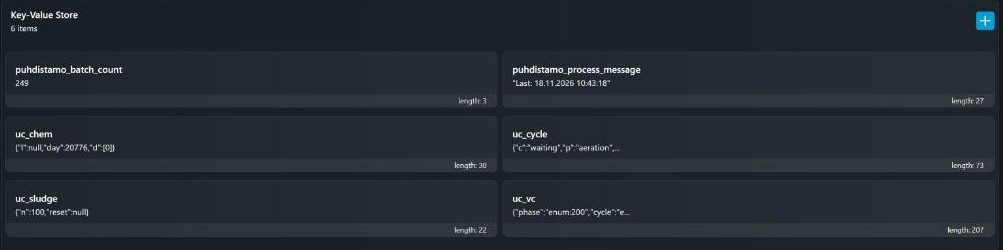
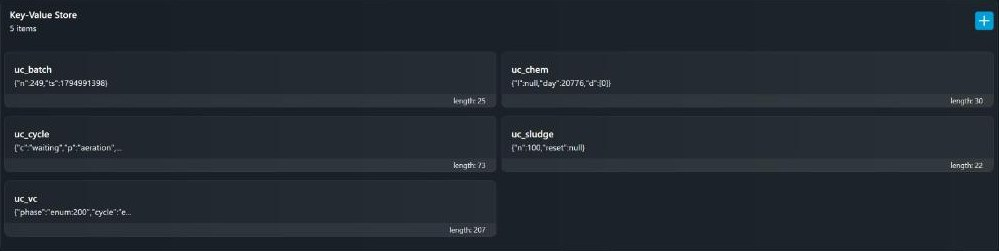
Skripti 3.0.1: v2.4-siirtymä pois, ohjeesta siirtymä pois
- skripti ei lue eikä kirjoita v2.4:n KVS-avaimia (puhdistamo_*), legacy_kvs pois
- testit käyttävät uc_batch-avainta ja tarkistavat, ettei v2-avaimia kirjoiteta
- asennusohjeesta siirtymä v2.4:stä pois, tilakysely ja kuvat 3.0.1:stä
- korttiohjeen YAML-esimerkistä legacy-lohko pois
- testitulokset: 3.0.1 laitteella (muisti, päivitys säilytti laskurit)

Claude-Session: https://claude.ai/code/session_013N1LumQrB2qyWVDVuPZ4Fc

diff --git a/test/v3_device_test.js b/test/v3_device_test.js
@@ -1,4 +1,4 @@
-// v3 install, components, user edits, KVS migration from v2.4, reinstall, endpoint and events
+// v3 install, components, user edits, stored counters, reinstall, endpoint and events
 // on the device mock. Usage: node v3_device_test.js [-v]
 'use strict';
 const fs = require('fs');
@@ -22,9 +22,8 @@ dev.verbose = process.argv.includes('-v');
 dev.bootT = T0 - 2000;
 dev.voltage = 230;
 dev.setFeed(sim.events);
-// v2.4 left these in KVS
-dev.kvs.set('puhdistamo_batch_count', '249');
-dev.kvs.set('puhdistamo_process_message', '"Last: 17.11.2026 21:15:30"');
+// counters from an earlier v3 run
+dev.kvs.set('uc_batch', JSON.stringify({ n: 249, ts: Date.parse('2026-11-17T19:15:30Z') / 1000 }));
 const sid = dev.addScript('uponor_clean_v3', code);
 const r = dev.startScript(sid);
 check(!r.err, 'script starts: ' + (r.msg || 'ok'));
@@ -37,9 +36,9 @@ check(comp('phase').config.name === 'Phase' && comp('next_pumpout').config.name 
 check(comp('phase').config.options.length === 13 && comp('warning').config.options.length === 11, 'enum options set with setConfig');
 check(comp('chemical').config.unit === undefined ? comp('chemical').config.meta.ui.unit === 'l' : true, 'chemical unit l');
 check(JSON.stringify(comp('plant').value) === JSON.stringify(['phase', 'cycle', 'status', 'warning', 'next_pumpout', 'batches', 'chemical', 'sludge'].map((x) => roles[x])), 'group members in order');
-check(comp('batches').value === 249, 'batch count taken over from v2.4 KVS: ' + comp('batches').value);
+check(comp('batches').value === 249, 'batch count from uc_batch: ' + comp('batches').value);
 const ub = JSON.parse(dev.kvs.get('uc_batch') || 'null');
-check(ub === null || ub.n === 249, 'uc_batch not written before a change');
+check(ub && ub.n === 249, 'uc_batch kept');
 
 // external writes: read-only labels refused, fields accepted
 check(comp('phase').config.meta.ui.view === 'label' && comp('batches').config.meta.ui.view === 'field', 'labels for outputs, fields for user values');
@@ -49,7 +48,7 @@ const st1 = JSON.parse(dev.httpGet(`/script/${sid}/state`).body);
 check(st1.eta !== null && Math.abs(st1.eta * 1000 - (sim.marks.find((m) => m.s === 'pump-out').t + 1000)) < 60e3, 'state endpoint gives the pump-out time');
 check(/^2026-11-18T\d\d:\d\d:\d\d\+02:00$/.test(comp('next_pumpout').value), 'next pump-out as local ISO time: ' + comp('next_pumpout').value);
 check(/Pump-out at \d\d:\d\d \(in \d+ h \d+ min\)/.test(comp('status').value), 'status text: ' + comp('status').value);
-check(st1.last_pumpout === Date.parse('2026-11-17T19:15:30Z') / 1000, 'last pump-out parsed from the v2.4 message (local time)');
+check(st1.last_pumpout === Date.parse('2026-11-17T19:15:30Z') / 1000, 'last pump-out from uc_batch');
 
 // user edits
 dev.externalSet(roles.chemical, 0.5);
@@ -64,13 +63,14 @@ dev.externalSet(roles.batches, 1000);
 dev.run(2000);
 check(comp('warning').value === 'none', 'sludge reset clears the reminder');
 check(JSON.parse(dev.kvs.get('uc_sludge')).reset !== null, 'sludge reset time stored');
-check(JSON.parse(dev.kvs.get('uc_batch')).n === 1000 && dev.kvs.get('puhdistamo_batch_count') === '1000', 'user batch count stored (uc_batch and legacy key)');
+check(JSON.parse(dev.kvs.get('uc_batch')).n === 1000, 'user batch count stored');
 
 // run through the pump-out
 dev.run(4 * 3600e3);
 check(comp('batches').value === 1001 && comp('sludge').value === 1, `batch counted: batches ${comp('batches').value}, sludge ${comp('sludge').value}`);
 check(comp('chemical').value === 17.96, 'one dose taken from the chemical: ' + comp('chemical').value);
-check(/^"Last: 18\.11\.2026 \d\d:\d\d:\d\d"$/.test(dev.kvs.get('puhdistamo_process_message')), 'legacy last pump-out message: ' + dev.kvs.get('puhdistamo_process_message'));
+check(JSON.parse(dev.kvs.get('uc_batch')).n === 1001, 'batch stored in uc_batch');
+check(![...dev.kvs.keys()].some((k) => k.startsWith('puhdistamo_')), 'no v2 KVS keys written');
 const types = [...new Set(dev.eventLog.filter((e) => e.name === 'uponor').map((e) => e.data.type))].sort();
 check(JSON.stringify(types) === JSON.stringify(['batch', 'chemical', 'phase', 'sludge', 'start', 'warning']), 'event types: ' + types.join(','));
 check(dev.eventLog.every((e) => e.data.v === 1), 'events carry version 1');

diff --git a/shelly/v3/uponor_clean_v3.js b/shelly/v3/uponor_clean_v3.js
@@ -26,7 +26,7 @@
  * no Array shift / unshift / concat, no Date.UTC.
  */
 
-let VERSION = "3.0.0";
+let VERSION = "3.0.1";
 
 // ------------------------------------------------------------------ settings
 // Can be overridden in KVS key "uc_cfg", e.g. {"sludge_limit": 600}. Script memory is
@@ -38,8 +38,7 @@ let CFG = {
     chem_warn_days: 10,       // warning when the chemical lasts less than this
     sludge_limit: 800,        // sludge emptying reminder (firmware default), 0 = off
     emptying_hint: true,      // hint when the pump-in power shows that the sludge was emptied
-    fault_high_w: 62.0,       // air_leak warning above this for 2 min
-    legacy_kvs: true          // also write the v2 KVS keys (puhdistamo_*)
+    fault_high_w: 62.0        // air_leak warning above this for 2 min
 };
 
 // firmware times (s), control unit board A
@@ -240,14 +239,6 @@ function kvsSave(key, value) {
 
 function saveBatch() {
     kvsSave("uc_batch", { n: cnt.batches, ts: cnt.lastBatchUnix });
-    if (CFG.legacy_kvs) {
-        kvsSave("puhdistamo_batch_count", JSON.stringify(cnt.batches));
-        let c = civil(cnt.lastBatchUnix);
-        if (c) {
-            kvsSave("puhdistamo_process_message", JSON.stringify("Last: " + pad2(c[2]) + "." + pad2(c[1]) + "." + c[0] + " " +
-                pad2(c[3]) + ":" + pad2(c[4]) + ":" + pad2(c[5])));
-        }
-    }
 }
 
 function saveChem() {
@@ -1183,23 +1174,6 @@ function applyLoaded(key, v) {
     } else if (key === "uc_batch" && v) {
         cnt.batches = v.n || 0;
         cnt.lastBatchUnix = v.ts || null;
-    } else if (key === "puhdistamo_batch_count" && v !== null) {
-        cnt.batches = Number(v) || 0;
-    } else if (key === "puhdistamo_process_message" && typeof v === "string" && v.indexOf("Last: ") === 0) {
-        let m = v.slice(6).split(" ");
-        let d = m[0].split(".");
-        let h = m[1] ? m[1].split(":") : ["0", "0", "0"];
-        let off = localOffsetMin();
-        if (d.length === 3 && off !== null) {
-            // days from 1970-01-01 to the civil date (Date.UTC is not available on the device)
-            let y = Number(d[2]) - (Number(d[1]) <= 2 ? 1 : 0);
-            let era = Math.floor(y / 400);
-            let yoe = y - era * 400;
-            let mo = Number(d[1]);
-            let doy = Math.floor((153 * (mo + (mo > 2 ? -3 : 9)) + 2) / 5) + Number(d[0]) - 1;
-            let days = era * 146097 + yoe * 365 + Math.floor(yoe / 4) - Math.floor(yoe / 100) + doy - 719468;
-            cnt.lastBatchUnix = days * 86400 + Number(h[0]) * 3600 + Number(h[1]) * 60 + Number(h[2] || 0) - off * 60;
-        }
     } else if (key === "uc_chem" && v) {
         cnt.chem = typeof v.l === "number" ? v.l : null;
         cnt.chemDay = v.day || 0;
@@ -1254,10 +1228,6 @@ function loadNext(i) {
             } catch (e) {
                 v = null;
             }
-        }
-        if (key === "uc_batch" && v === null) {
-            LOAD.push("puhdistamo_batch_count");
-            LOAD.push("puhdistamo_process_message");
         }
         applyLoaded(key, v);
         loadNext(i + 1);

diff --git a/shelly/v3/uponor_clean_v3_shelly.js b/shelly/v3/uponor_clean_v3_shelly.js
@@ -1,6 +1,6 @@
-// Uponor Clean I v3.0.0 - compact version of uponor_clean_v3.js (github.com/fraatti/uponor-clean-shelly)
+// Uponor Clean I v3.0.1 - compact version of uponor_clean_v3.js (github.com/fraatti/uponor-clean-shelly)
 // Events: Shelly.emitEvent("uponor", {v, type, ...}) - kept in the first 5 kB for the Home Assistant event entity
-let VERSION = "3.0.0";
+let VERSION = "3.0.1";
 let CFG = {
  off_max: 2.0, idle_max: 10.0, valve_max: 24.0, dosing_max: 38.5, comp_max: 52.0, aer_max: 64.0,
  debounce_s: 6,
@@ -8,8 +8,7 @@ let CFG = {
  chem_warn_days: 10,
  sludge_limit: 800,
  emptying_hint: true,
- fault_high_w: 62.0,
- legacy_kvs: true
+ fault_high_w: 62.0
 };
 let FW = {
  pre: 600, aer: 5400, chem: 90, dose: 10, mix: 120, sed1: 2700, sludge: 120, sed2: 900, out: 780, in_max: 1020,
@@ -175,14 +174,6 @@ function kvsSave(key, value) {
 }
 function saveBatch() {
  kvsSave("uc_batch", { n: cnt.batches, ts: cnt.lastBatchUnix });
- if (CFG.legacy_kvs) {
-  kvsSave("puhdistamo_batch_count", JSON.stringify(cnt.batches));
-  let c = civil(cnt.lastBatchUnix);
-  if (c) {
-   kvsSave("puhdistamo_process_message", JSON.stringify("Last: " + pad2(c[2]) + "." + pad2(c[1]) + "." + c[0] + " " +
-    pad2(c[3]) + ":" + pad2(c[4]) + ":" + pad2(c[5])));
-  }
- }
 }
 function saveChem() {
  kvsSave("uc_chem", { l: cnt.chem, day: cnt.chemDay, d: cnt.doses });
@@ -1004,22 +995,6 @@ function applyLoaded(key, v) {
  } else if (key === "uc_batch" && v) {
   cnt.batches = v.n || 0;
   cnt.lastBatchUnix = v.ts || null;
- } else if (key === "puhdistamo_batch_count" && v !== null) {
-  cnt.batches = Number(v) || 0;
- } else if (key === "puhdistamo_process_message" && typeof v === "string" && v.indexOf("Last: ") === 0) {
-  let m = v.slice(6).split(" ");
-  let d = m[0].split(".");
-  let h = m[1] ? m[1].split(":") : ["0", "0", "0"];
-  let off = localOffsetMin();
-  if (d.length === 3 && off !== null) {
-   let y = Number(d[2]) - (Number(d[1]) <= 2 ? 1 : 0);
-   let era = Math.floor(y / 400);
-   let yoe = y - era * 400;
-   let mo = Number(d[1]);
-   let doy = Math.floor((153 * (mo + (mo > 2 ? -3 : 9)) + 2) / 5) + Number(d[0]) - 1;
-   let days = era * 146097 + yoe * 365 + Math.floor(yoe / 4) - Math.floor(yoe / 100) + doy - 719468;
-   cnt.lastBatchUnix = days * 86400 + Number(h[0]) * 3600 + Number(h[1]) * 60 + Number(h[2] || 0) - off * 60;
-  }
  } else if (key === "uc_chem" && v) {
   cnt.chem = typeof v.l === "number" ? v.l : null;
   cnt.chemDay = v.day || 0;
@@ -1071,10 +1046,6 @@ function loadNext(i) {
    } catch (e) {
     v = null;
    }
-  }
-  if (key === "uc_batch" && v === null) {
-   LOAD.push("puhdistamo_batch_count");
-   LOAD.push("puhdistamo_process_message");
   }
   applyLoaded(key, v);
   loadNext(i + 1);

diff --git a/test/v3_scenarios.js b/test/v3_scenarios.js
@@ -11,7 +11,7 @@ const H_ = 3600e3;
 const verbose = process.argv.includes('-v');
 const filter = process.argv.slice(2).filter((a) => a !== '-v')[0];
 const fmt = (t) => new Date(t).toLocaleString('fi-FI', { timeZone: 'Europe/Helsinki' });
-const KVS = { puhdistamo_batch_count: '100', puhdistamo_process_message: '"Last: 31.10.2026 22:00:00"' };
+const KVS = { uc_batch: JSON.stringify({ n: 100, ts: Date.parse('2026-10-31T20:00:00Z') / 1000 }) };
 const tripsNormal = (c, n) => ({ 2: 130, 5: 260, 8: 390, 11: 515, 14: 40 })[n] ?? (c === 'post' && n === 3 ? 900 : null);
 
 /* sc: fwsim scenario + { powerUp (script starts with the plant), shellyWithCut, swReboots, expect } */
@@ -95,8 +95,8 @@ for (const S of SC) {
   if (bEv.length !== bSim.length) problems.push(`batches ${bEv.length} != firmware ${bSim.length}`);
   const bErr = bEv.map((e, i) => (bSim[i] === undefined ? null : e.ts - bSim[i]));
   if (bErr.some((d) => d === null || Math.abs(d) > 10)) problems.push('batch times off by ' + bErr.join(','));
-  const lastB = run.kvs.get('puhdistamo_batch_count');
-  if (+lastB !== 100 + bSim.length) problems.push('legacy KVS batch count ' + lastB);
+  const lastB = JSON.parse(run.kvs.get('uc_batch')).n;
+  if (lastB !== 100 + bSim.length) problems.push('KVS batch count ' + lastB);
 
   // pump-out estimate: the last estimate before each pump-out, and every estimate made after
   // the cycle start (from `earlyEtaFrom` in scenarios where high water cuts the aeration)

diff --git a/test/v3_realdata.js b/test/v3_realdata.js
@@ -39,7 +39,7 @@ for (const S of SETS) {
 
   const run = R.runV3({
     events: feed.events.filter((e) => e.t >= t0 - 3600e3), t0, t1, voltage: 230, tzOffsetMin: 180,
-    kvs: { puhdistamo_batch_count: '0', puhdistamo_process_message: '"-"', uc_sludge: '{"n":300,"reset":null}' }, uptimeAtStartS: 86400, resetReason: 3,
+    kvs: { uc_sludge: '{"n":300,"reset":null}' }, uptimeAtStartS: 86400, resetReason: 3,
     scriptRestarts: restarts, dataGapEnds: gapEnds, verbose,
   });
   const problems = [];

diff --git a/shelly/tools/lataa_shellyyn.py b/shelly/tools/lataa_shellyyn.py
@@ -6,7 +6,7 @@ Kaytto:
   python3 lataa_shellyyn.py <shellyn-ip> <skriptin-id> <tiedosto.js> [--salasana SALASANA] [--kaynnista]
 
 Esimerkki:
-  python3 lataa_shellyyn.py 192.168.1.50 1 puhdistamo_skripti_v2_4.js --kaynnista
+  python3 lataa_shellyyn.py 192.168.1.50 2 shelly/v3/uponor_clean_v3_shelly.js --kaynnista
 
 Vaiheet: pysayttaa skriptin, kirjoittaa koodin 1024 merkin paloina, lukee koodin
 takaisin ja vertaa sita tiedostoon, ja kaynnistaa skriptin vain pyydettaessa.

diff --git a/docs/v3-asennus.md b/docs/v3-asennus.md
@@ -9,7 +9,7 @@ Lähdekoodi on `shelly/v3/uponor_clean_v3.js`. Laitteelle ladataan sen tiivistet
 - Shelly, jossa on em1- tai pm1-tehomittaus ja firmware 2.2.0 tai uudempi. Testattu laite on Shelly EM Mini Gen4 (firmware 2.2.0).
 - Shelly mittaa puhdistamon syöttöä ja on samassa sähkönsyötössä. Skripti päättelee Shellyn käynnistyssyystä, oliko kyseessä sähkökatko (ohjauskeskus aloittaa uuden puhdistusjakson) vai Shellyn oma uudelleenkäynnistys (ohjauskeskus jatkaa).
 - Laitteella on vapaana 9 virtuaalikomponenttipaikkaa (raja on 10). Skripti luo 8 komponenttia ja ryhmän.
-- Muistia on vapaana vähintään noin 18 kt. Kaikilla skripteillä on yhteensä noin 25 kt. v3 käyttää noin 15 kt (huippu 18 kt), joten muut isot skriptit (esim. v2.4) pitää pysäyttää.
+- Muistia on vapaana vähintään noin 18 kt. Kaikilla skripteillä on yhteensä noin 25 kt. v3 käyttää noin 15 kt (huippu 19 kt), joten muut isot skriptit pitää pysäyttää.
 
 ## 2. Aikavyöhyke
 
@@ -29,8 +29,8 @@ Avaa Shellyn web-käyttöliittymä (`http://<shellyn-ip>/`) ja tarkista **Settin
 
    ![Uusi skripti](img/shelly_uusi_skripti.jpg)
 
-3. Avaa GitHubissa tiedosto `shelly/v3/uponor_clean_v3_shelly.js`, valitse **Raw**, kopioi koko sisältö (Ctrl+A, Ctrl+C) ja liitä se editoriin. Tiedosto on noin 40 000 merkkiä, ja editoriin mahtuu noin 50 000.
-4. Tallenna (levykekuvake) ja käynnistä (**Start**). Konsoliin tulee rivi `version 3.0.0 started`.
+3. Avaa GitHubissa tiedosto `shelly/v3/uponor_clean_v3_shelly.js`, valitse **Raw**, kopioi koko sisältö (Ctrl+A, Ctrl+C) ja liitä se editoriin. Tiedosto on noin 39 000 merkkiä, ja editoriin mahtuu noin 50 000.
+4. Tallenna (levykekuvake) ja käynnistä (**Start**). Konsoliin tulee rivi `version 3.0.1 started`.
 
    ![Skriptieditori](img/shelly_editori.jpg)
 
@@ -52,7 +52,7 @@ Skripti luo komponentit `Virtual.Add`-kutsulla muutamassa sekunnissa ja tallenta
 
 ![Komponentit](img/shelly_komponentit.jpg)
 
-Komponentit eivät ole skriptin omistamia (`@meta`), koska Home Assistantin Shelly-integraatio ei näytä skriptin omistamia komponentteja. Siksi ne säilyvät, jos skripti poistetaan (kohta 10).
+Komponentit eivät ole skriptin omistamia (`@meta`), koska Home Assistantin Shelly-integraatio ei näytä skriptin omistamia komponentteja. Siksi ne säilyvät, jos skripti poistetaan (kohta 9).
 
 Phase ja Cycle näyttävät aluksi `Unknown`, kunnes skripti tunnistaa ensimmäisen vaiheen. Odotusjaksossa se tapahtuu yleensä alle tunnissa, puhdistusjaksossa viimeistään seuraavassa vaihteessa. Jos Shelly käynnistyi sähkökatkon jälkeen, skripti tietää heti, että puhdistusjakso alkaa alusta.
 
@@ -64,7 +64,7 @@ Shellyn käyttöliittymä (firmware 2.2.0) näyttää lukutilassa olevan enum-ko
 
 Syötä arvot puhdistamon näytöltä Shellyn kenttiin (kirjoita ja **Save**), Home Assistantissa tai kortilla:
 
-- **Batches**: panoslaskuri. Jos laitteella oli v2.4, v3 lukee aluksi sen laskurin (kohta 9). Jos arvo eroaa puhdistamon näytöstä, syötä näytön lukema. Laskenta jatkuu siitä.
+- **Batches**: panoslaskuri. Syötä puhdistamon näytön lukema. Laskenta jatkuu siitä.
 - **Chemical**: kemikaalin määrä astiassa litroina. 0 = ei asetettu (ei kemikaalivaroitusta). Syötä uusi määrä jokaisen täytön jälkeen. Skripti vähentää 0,04 l annostelua kohden.
 - **Sludge**: panokset lietteen edellisestä tyhjennyksestä. Aseta 0, kun saostussäiliö on tyhjennetty. Muistutus tulee 800 panoksessa.
 
@@ -77,10 +77,10 @@ Lataa Home Assistantissa Shelly-integraatio uudelleen, jotta komponentit tulevat
 `http://<shellyn-ip>/script/<numero>/state` palauttaa JSON-tilan, esim. (19.11.2026, odotusjakson ilmastus):
 
 ```json
-{"version":"3.0.0","cycle":"waiting","phase":"aeration","code":"S204","since":1795039592,
+{"version":"3.0.1","cycle":"waiting","phase":"aeration","code":"S204","since":1795064382,
  "eta":null,"last_pumpout":1794991398,"batches":249,"chemical":{"l":null,"days":null},
  "sludge":{"n":100,"reset":null},"warnings":[],"holiday_at":null,"holiday_since":null,
- "power":56.9,"band":"AER","time_synced":true,"uptime":15843}
+ "power":56.8,"band":"AER","time_synced":true,"uptime":39545}
 ```
 
 Ajat ovat Unix-sekunteja. `eta` on seuraavan ulospumppauksen alku. `holiday_at` on hetki, jolloin odotusjakso siirtyy lomajaksoon, jos aloitustasoa ei saavuteta; se on tiedossa vasta, kun skripti on nähnyt odotusjakson alun. `band` on tehoalue (`OFF`, `IDLE`, `VALVE`, `DOSING`, `COMP`, `AER`).
@@ -92,17 +92,7 @@ Ajat ovat Unix-sekunteja. `eta` on seuraavan ulospumppauksen alku. `holiday_at` 
 
 Päivitä mieluiten odotusjakson aikana, ei ulospumppauksen aikana. Jos komponentteja tuli lisää, lataa Home Assistantissa Shelly-integraatio uudelleen.
 
-## 9. Siirtymä v2.4:stä
-
-v2.4 käytti 10 käsin luotua komponenttia, eikä v3 mahdu niiden rinnalle.
-
-1. Pysäytä v2.4 (`Uponor_script`) ja poista siltä *Run on startup*. Tee tämä odotusjakson aikana.
-2. Poista v2.4:n komponentit: **Components** → komponentin hammasratas → **Delete**.
-3. Asenna v3 (kohdat 3–6). v3 lukee panoslaskurin ja viimeisimmän ulospumppauksen v2.4:n KVS-avaimista (`puhdistamo_batch_count`, `puhdistamo_process_message`).
-
-Paluuta v2.4:ään ei tueta.
-
-## 10. Poisto
+## 9. Poisto
 
 1. Pysäytä skripti ja poista se (**Scripts**).
 2. Poista komponentit: **Components** → komponentin hammasratas → **Delete** (8 komponenttia ja ryhmä Uponor Clean). Skriptin poisto ei poista niitä.
@@ -150,7 +140,6 @@ Asetuksia voi muuttaa KVS-avaimella `uc_cfg` (JSON), esim. `{"sludge_limit": 600
 | `sludge_limit` | 800 | Lietemuistutuksen raja (puhdistamon oletus), 0 = pois |
 | `emptying_hint` | true | Tyhjennysvihje sisäänpumppauksen tehosta |
 | `fault_high_w` | 62 | Ilmavuotovaroituksen raja (W) |
-| `legacy_kvs` | true | Kirjoita panoslaskuri ja viimeisin ulospumppaus myös v2.4:n KVS-avaimiin (`puhdistamo_*`) |
 
 ## KVS-avaimet
 

diff --git a/README.md b/README.md
@@ -10,7 +10,7 @@ Shelly EM Mini Gen4 mittaa puhdistamon sähkönkulutusta. Skripti päättelee si
 
 | Ohje | Sisältö |
 | --- | --- |
-| [`docs/v3-asennus.md`](docs/v3-asennus.md) | Shelly-skriptin v3 asennus kuvineen, päivitys, siirtymä v2.4:stä, poisto, komponentit, varoitukset, asetukset ja vianetsintä |
+| [`docs/v3-asennus.md`](docs/v3-asennus.md) | Shelly-skriptin v3 asennus kuvineen, päivitys, poisto, komponentit, varoitukset, asetukset ja vianetsintä |
 | [`docs/home-assistant.md`](docs/home-assistant.md) | Home Assistant: Shelly-integraatio, entiteetit, tapahtumaentiteetti ja automaatioesimerkit |
 | [`docs/kortti.md`](docs/kortti.md) | Home Assistant -kortti: mitä se näyttää, asennus, kieli, asetukset, kemikaalin ja lietteen syöttö |
 | [`ha-card/README.md`](ha-card/README.md) | Card reference in English (all options, v2 helpers, level model) |
@@ -21,7 +21,7 @@ Shelly EM Mini Gen4 mittaa puhdistamon sähkönkulutusta. Skripti päättelee si
 
 | Kansio | Sisältö |
 | --- | --- |
-| `shelly/v3/` | Skripti v3.0.0: `uponor_clean_v3.js` (lähde) ja `uponor_clean_v3_shelly.js` (tiivistetty, ladataan Shellyyn). |
+| `shelly/v3/` | Skripti v3.0.1: `uponor_clean_v3.js` (lähde) ja `uponor_clean_v3_shelly.js` (tiivistetty, ladataan Shellyyn). |
 | `shelly/v2/` | Vanhat skriptit v2.4 ja v2.3 (eivät käytössä) sekä v2.4:n komponenttien varmuuskopio (`backup/`). |
 | `shelly/v3/proto/` | v3-prototyypit laitetestiin ja komponenttien varmuuskopiotyökalu `uc_tools.js` (käytetty siirtymässä). Ohje: `docs/v3-prototyyppitesti.md`. |
 | `shelly/tools/` | `lataa_shellyyn.py` (lataus Shellyyn RPC:llä), `compact.py` (tiivistys), `make_v24.py` (v2.3 → v2.4 -muunnos). |
@@ -33,9 +33,9 @@ Shelly EM Mini Gen4 mittaa puhdistamon sähkönkulutusta. Skripti päättelee si
 
 | Versio | Tila |
 | --- | --- |
-| Skripti v3.0.0 | Käytössä 18.11.2026 alkaen (haara `v3`). Ei vaadi Home Assistantia, luo komponentit itse, firmwaren mukaiset vaiheet ja jaksot, kemikaali- ja lietelaskuri, varoitukset, tapahtumat. |
+| Skripti v3.0.1 | Käytössä 19.11.2026 alkaen (haara `v3`, v3.0.0 18.11.2026). Ei vaadi Home Assistantia, luo komponentit itse, firmwaren mukaiset vaiheet ja jaksot, kemikaali- ja lietelaskuri, varoitukset, tapahtumat. |
 | Kortti v1.7.1 | Käytössä. v3-entiteetit, v2-historia ennen v3:a, visuaalinen editori ja kielivalinta, kemikaalin ja lietteen syöttö kortilta. |
-| Skripti v2.4.0 | Poistettu käytöstä 18.11.2026. Paluuta ei tueta. |
+| Skripti v2.4.0 | Poistettu käytöstä 18.11.2026 ja poistettu laitteelta 19.11.2026. Ei siirtymää eikä paluuta. |
 | Skripti v2.3 | Vanha versio. |
 
 ## Huomio ennen julkistamista

diff --git a/docs/v3-testitulokset.md b/docs/v3-testitulokset.md
@@ -1,4 +1,4 @@
-# v3.0.0 – testitulokset 18.–19.11.2026
+# v3 – testitulokset 18.–19.11.2026
 
 ## Simulaattori (`test/v3_scenarios.js`)
 
@@ -78,6 +78,20 @@ Havainnot laitteella:
 - Home Assistant löytää skriptin tapahtumatyypit vain skriptin ensimmäisestä 5 kt:sta. Tiivistetyn version toinen rivi mainitsee `Shelly.emitEvent("uponor", …)`, jolloin integraatio luo tapahtumaentiteetin.
 - Shellyn käyttöliittymä näyttää lukutilan enum-arvon rikkinäisen kuvan kuvakkeen kanssa (käyttöliittymän ominaisuus, ei vaikuta arvoihin).
 - Ensimmäinen odotusjakso laitteella (Home Assistantin historia): odotus 23.47.39, lietteen palautus 00.05.40, ilmastus 00.06.45, sisäänpumppaus 00.36.45 ja odotus 00.46.40, eli firmwaren 18 min, 1 min, 30 min ja 10 min. Skriptin päivitys (pysäytys ja käynnistys) odotuksen aikana jatkoi samasta vaiheesta. Lyhyet `unavailable`-tilat ovat integraation uudelleenlatauksia.
+
+## Versio 3.0.1 (19.11.2026)
+
+v2-yhteensopivuus poistettiin: skripti ei enää lue eikä kirjoita v2.4:n KVS-avaimia (`puhdistamo_batch_count`, `puhdistamo_process_message`), ja asetus `legacy_kvs` poistui. Ennen päivitystä panoslaskuri ja viimeisin ulospumppaus kirjoitettiin avaimeen `uc_batch`, koska v3.0.0 luki ne vielä v2.4:n avaimista. Laitteelta poistettiin v2.4-skripti, `uc-tools` ja v2.4:n KVS-avaimet.
+
+| Mittaus | Tulos |
+| --- | --- |
+| Tiivistetty koko | 39 123 merkkiä (3.0.0: 40 415) |
+| Muisti käytössä | 14,9 kt |
+| Muistin huippu | 18,9 kt (sisältää komponenttien asetusten päivityksen versionvaihdossa) |
+| Vapaata muistia | 10,3 kt |
+| Päivitys odotusjakson ilmastuksessa | Jatkoi samasta vaiheesta, Batches 249 ja viimeisin ulospumppaus säilyivät |
+
+Kaikki testit (skenaariot, tallennettu data, laitetesti, kortti) antavat saman tuloksen lähteellä ja tiivistetyllä versiolla.
 
 ## Kortti (`test/card_v3_test.js`)
 

diff --git a/test/README.md b/test/README.md
@@ -43,13 +43,13 @@ cd test
 cp ../shelly/v2/puhdistamo_skripti_v2_4.js .     # vertailua varten
 node v3_scenarios.js        # firmwaresimulaattorin skenaariot (-v: konsoli, suodatin nimen osalla)
 node v3_realdata.js         # tallennettu data, vertailu v2.4:ään (data/*.csv)
-node v3_device_test.js      # komponentit, käyttäjän muokkaukset, KVS-siirtymä, uudelleenasennus
+node v3_device_test.js      # komponentit, käyttäjän muokkaukset, KVS, uudelleenasennus
 V3_FILE=../shelly/v3/uponor_clean_v3_shelly.js node v3_scenarios.js   # tiivistetty versio
 ```
 
 `v3run.js` ajaa skriptin jäljitelmässä tehosyötteen kanssa (sähkökatkot Shellyn kanssa tai ilman, Shellyn ja skriptin uudelleenkäynnistykset, käyttäjän muokkaukset) ja vertaa vaiheita simulaattorin todellisiin vaiheisiin. Simulaattori (`fwsim.js`) kirjaa jokaisen vaiheen alun ja annostelut, ja siinä voi pysäyttää prosessin paneelista (`pauses`). Tulokset: `docs/v3-testitulokset.md`.
 
-`v3_device_test.js` tarkistaa asennuksen kulun: komponenttien luonti `Virtual.Add`-kutsulla (ei `@meta`), nimet ja näkymät, käyttäjän muokkaukset, KVS-siirtymä v2.4:stä, tapahtumat, skriptin uudelleenkäynnistys, poisto (komponentit säilyvät), uudelleenasennus (`uc_vc`) ja puuttuvan komponentin uudelleenluonti.
+`v3_device_test.js` tarkistaa asennuksen kulun: komponenttien luonti `Virtual.Add`-kutsulla (ei `@meta`), nimet ja näkymät, käyttäjän muokkaukset, laskurit KVS:ssä (ei v2:n avaimia), tapahtumat, skriptin uudelleenkäynnistys, poisto (komponentit säilyvät), uudelleenasennus (`uc_vc`) ja puuttuvan komponentin uudelleenluonti.
 
 ## Kortti
 

diff --git a/docs/kortti.md b/docs/kortti.md
@@ -72,11 +72,6 @@ entities:
   sludge: number.storage_room_uponor_clean_1_sludge
   energy: sensor.uponor_clean_1_energy
 sludge_emptied: "2026-09-18"
-# v2.4:n entiteetit, joiden historia näytetään ennen v3:n alkua
-legacy:
-  status: select.uponor_clean_1_vc_cycle_status
-  message: text.storage_room_uponor_clean_1_process_message
-  batch_counter: sensor.uponor_clean_1_vc_batch_counter
 ```
 
 | Asetus | Oletus | Merkitys |
